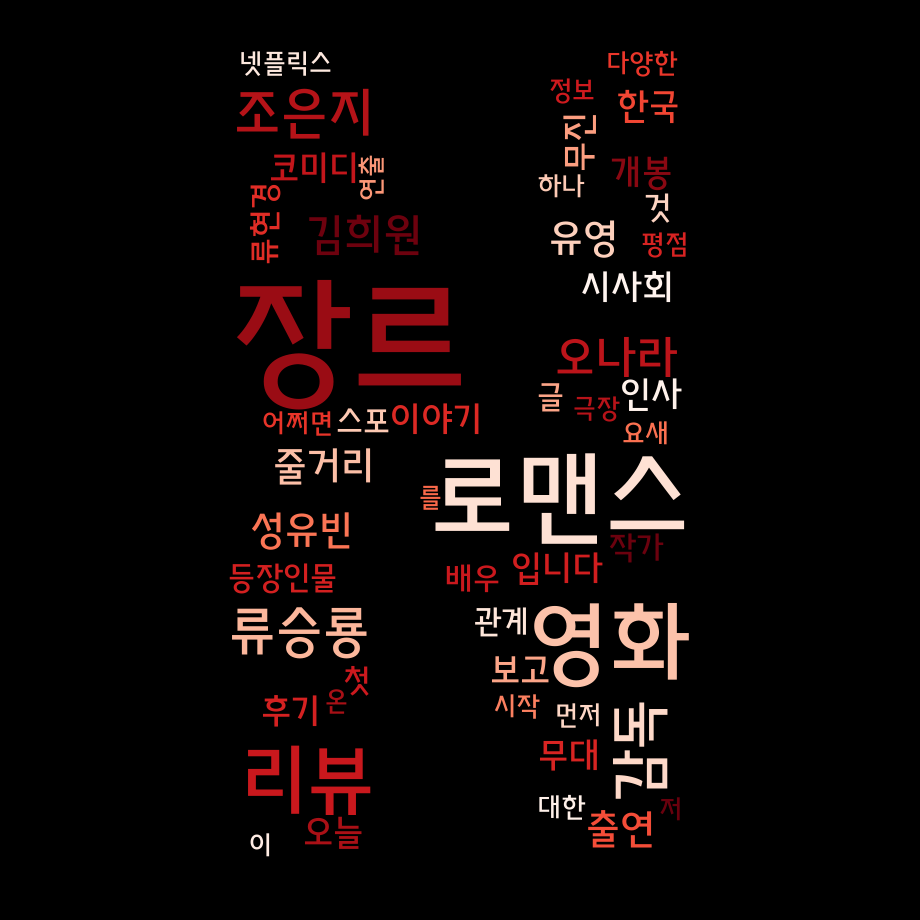
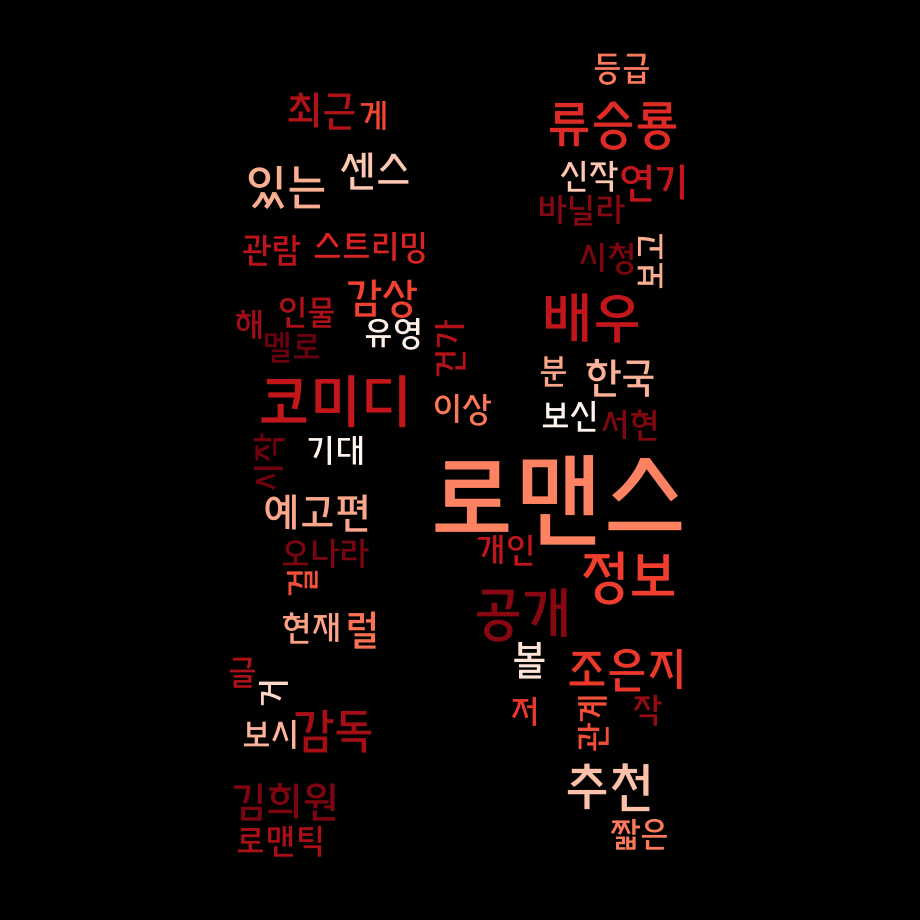
function update

Changed region(s): [[0.2435, 0.0304, 0.7609, 0.9435]]

diff --git a/Netflix_Crawling.py b/Netflix_Crawling.py
@@ -17,6 +17,7 @@ import matplotlib.pyplot as plt
 from selenium.webdriver import Chrome, ChromeOptions
 from selenium.webdriver.support.ui import WebDriverWait
 from webdriver_manager.chrome import ChromeDriverManager
+from selenium.webdriver.common.by import By
 
 # 텍스트 형식
 from email.mime.text import MIMEText
@@ -30,7 +31,7 @@ from email.mime.audio import MIMEAudio
 # MIMEBase(<메인 타입>, <서브 타입>)
 from email.mime.base import MIMEBase
 
-
+# 이미지 첨부를 위한 Class
 class imageAttach(object):
     def __init__(self,name):
         self.name = name
@@ -41,6 +42,7 @@ class imageAttach(object):
     def __repr__(self):
         return "'"+self.name+"'"
 
+# 메일 전송 함수
 def send_email(smtp_info, msg):
     with smtplib.SMTP(smtp_info["smtp_server"], smtp_info["smtp_port"]) as server:
         # TLS 보안 연결
@@ -49,7 +51,8 @@ def send_email(smtp_info, msg):
         server.login(smtp_info["smtp_user_id"], smtp_info["smtp_user_pw"])
 
         # 로그인 된 서버에 이메일 전송
-        response = server.sendmail(msg['from'], msg['to'], msg.as_string()) # 메시지를 보낼때는 .as_string() 메소드를 사용해서 문자열로 바꿔줍니다.
+        response = server.sendmail(msg['from'], msg['to'], msg.as_string())
+        # 메시지를 보낼때는 .as_string() 메소드를 사용해서 문자열로 변경
 
         # 이메일을 성공적으로 보내면 결과는 {}
         if not response:
@@ -57,12 +60,12 @@ def send_email(smtp_info, msg):
         else:
             print(response)
 
-
+# 첨부 파일 추가 함수
 def make_multimsg(msg_dict):
     multi = MIMEMultipart(_subtype='mixed')
 
     for key, value in msg_dict.items():
-        # 각 타입에 적절한 MIMExxx()함수를 호출하여 msg 객체를 생성한다.
+        # 각 타입에 적절한 MIMExxx()함수를 호출하여 msg 객체를 생성.
         if key == 'text':
             with open(value['filename'], encoding='utf-8') as fp:
                 msg = MIMEText(fp.read(), _subtype=value['subtype'])
@@ -86,86 +89,46 @@ def make_multimsg(msg_dict):
 
     return multi
 
-excel_df = pd.read_excel('all-weeks-countries.xlsx', usecols = ['country_name','week','category','show_title'])
+# 웹 크롤링 함수
+def selenium_Crawling(read_title):
 
-# 엑셀
-excel_df = excel_df[excel_df['country_name']=='South Korea']
-excel_df = excel_df[excel_df['week']=='2022-02-27']
+    start_url = 'http://www.naver.com' # 첫 시작 url
 
-# 제목만 추출
-title_list = excel_df.show_title.tolist()
-
-
-print(title_list)
-
-
-chrome_options = ChromeOptions()
-
-prefs = {"download.default_directory": os.getcwd()}
-chrome_options.add_experimental_option("prefs", prefs)
-
-chrome_options.add_argument(
-'--kiosk-printing'
-)
-
-chrome_options.add_argument(
-    'start-maximized'
-)
-
-chrome_options.add_argument(
-    "disable-gpu"
-)
-
-driver = Chrome(
-    ChromeDriverManager().install(), options=chrome_options
-)
-
-maximum_wait = 15
-wait = WebDriverWait(driver, maximum_wait)
-
-start_url = 'http://www.naver.com' # 첫 시작 url
-
-value = title_list
-
-attach_dict={}
-tag_list=[]
-
-for titles in value:
     driver.get(start_url)
-    search = driver.find_element_by_id('query') #검색창 가져오기
+    search = driver.find_element(By.ID,'query') #검색창 가져오기
     time.sleep(1)
-    search.send_keys(f"{titles} 리뷰") #검색창 입력
+    search.send_keys(f"넷플릭스 {read_title} 리뷰") #검색창 입력
 
-    driver.find_element_by_id('search_btn').click() #버튼 클릭
-    time.sleep(1)
-
-    driver.find_element_by_link_text("VIEW").click() #view 클릭
+    driver.find_element(By.ID,'search_btn').click() #버튼 클릭
     time.sleep(1)
 
-    driver.find_element_by_link_text("블로그").click() #블로그 클릭
+    driver.find_element(By.LINK_TEXT,"VIEW").click() #view 클릭
     time.sleep(1)
 
-    des_texts = driver.find_elements_by_class_name('dsc_txt') #미리보기 text 가져오기
+    driver.find_element(By.LINK_TEXT,"블로그").click() #블로그 클릭
+    time.sleep(1)
+
+    des_texts = driver.find_elements(By.CLASS_NAME,'dsc_txt') #미리보기 text 가져오기
+
     des_text=""
     for i in des_texts:
         des_text += " "+i.text
     print(des_text)
-    # 워드클라우드
+    return des_text
+
+# 전처리 및 워드카운트
+def preprocessing(read_text,stop_words):
     # 토큰화
     okt=Okt()
     #print(des_texts)
     # 토큰화 후 배열로 저장
     line=[]
-    line = okt.pos(des_text)
+    line = okt.pos(read_text)
 
     n_adj=[]
     for word, tag in line:
         if tag in ['Noun','Adjective']:
             n_adj.append(word)
-
-    # 불용어 제거
-    stop_words = ""
-    stop_words=set(stop_words.split(' '))
 
     # 불용어 제외한 단어만 남기기
     n_adj = [word for word in n_adj if not word in stop_words]
@@ -173,20 +136,16 @@ for titles in value:
     # 가장 많이 나온 단어 50개 저장
     counts = Counter(n_adj)
     tags = counts.most_common(50)
+    return tags
 
-
-    mask = Image.new("RGBA",(920,920),(255,255,255))
-    image=Image.open('netflix_logo.png').convert("RGBA")
-    x,y =image.size
-    mask.paste(image,(0,0,x,y),image)
-    mask = np.array(mask)
-
-
-
-    # 폰트
-    font ='t0SbEaWPJanI7N31lVxO_i1Ngp0.ttf'
+# 워드클라우드 생성 함수
+def toWordcloud(tags,mask,font):
     # 워드클라우드 generate
-    word_cloud = WordCloud(font_path=font,background_color='black',max_font_size=300, mask=mask, colormap='Reds').generate_from_frequencies(dict(tags))
+    word_cloud = WordCloud(font_path=font,
+                           background_color='black',
+                           max_font_size=300,
+                           mask=mask, colormap='Reds').\
+        generate_from_frequencies(dict(tags))
 
     # 그림으로 표현하기
     plt.figure(figsize=(20,8))
@@ -196,28 +155,89 @@ for titles in value:
 
     # 이미지로 저장
     word_cloud.to_file(f'./result/{titles}.png')
-    #plt.show()
 
+
+# Netflix 나라별 Top10 엑셀에서 최신 한국기준으로 불러오기
+excel_df = pd.read_excel('all-weeks-countries.xlsx',
+                         usecols = ['country_name','week','category','show_title'])
+excel_df = excel_df[excel_df['country_name']=='South Korea']
+excel_df = excel_df[excel_df['week']=='2022-02-27']
+
+
+# 제목리스트 추출
+title_list = excel_df.show_title.tolist()
+
+print(title_list)
+
+# Web Crawling 셋팅
+chrome_options = ChromeOptions()
+prefs = {"download.default_directory": os.getcwd()}
+chrome_options.add_experimental_option("prefs", prefs)
+chrome_options.add_argument('--kiosk-printing')
+chrome_options.add_argument('start-maximized')
+chrome_options.add_argument("disable-gpu")
+driver = Chrome(ChromeDriverManager().install(), options=chrome_options)
+
+maximum_wait = 15
+wait = WebDriverWait(driver, maximum_wait)
+
+
+# 불용어 파일 셋팅
+stop_words = open("koreanStopwords.txt",'r',encoding='utf8').read()
+stop_words=set(stop_words.split('\n'))
+
+#wordcloud 설정
+mask = Image.new("RGBA",(920,920),(255,255,255))
+image=Image.open('netflix_logo.png').convert("RGBA")
+x,y =image.size
+mask.paste(image,(0,0,x,y),image)
+mask = np.array(mask)
+font ='t0SbEaWPJanI7N31lVxO_i1Ngp0.ttf' # 폰트
+
+
+attach_dict={}
+tag_list=[]
+
+# 타이틀 별 웹 크롤링, 전처리, 시각화 진행
+for titles in title_list:
+
+    # 웹 크롤링 실행
+    des_text = selenium_Crawling(titles)
+
+    # 형태소 분석 & 워드 카운트 실행
+    tags = preprocessing(des_text,stop_words)
+
+    # 워드 클라우드 실행
+    toWordcloud(tags,mask,font)
+
+    # 타이틀 별 카운트된 워드 Top5 리스트에 저장
     top5_tag=tags[0][0]
     for num in range(1,5):
         top5_tag += ', '+tags[num][0]
     print(top5_tag)
-
     tag_list.append(top5_tag)
+
     # 이메일 전송용 이미지데이터 저장
-    attach_dict[imageAttach("image")] = {'maintype' : 'image', 'subtype' :'png', 'filename' : titles+'.png'}
+    attach_dict[imageAttach("image")] = \
+        {'maintype' : 'image', 'subtype' :'png', 'filename' : titles+'.png'}
 
     print("=========한 작품끝 =================================================================================================================")
 
 
+# 데이터프레임 엑셀로 저장
 excel_df['top_word']=tag_list
 excel_df.to_excel('./result/Netflix_Top10.xlsx',index=False)
-attach_dict['excel'] ={'maintype' : 'excel', 'subtype' : 'octect-stream', 'filename' : 'Netflix_Top10.xlsx'}
-id =''
-password=''
-#전송 정보
+attach_dict['excel'] ={'maintype' : 'excel', 'subtype' : 'octect-stream',
+                       'filename' : 'Netflix_Top10.xlsx'}
+
+
+# email / password 설정
+email = ''
+password = ''
+
+#전송 정보 설정
 smtp_info = dict({"smtp_server" : "smtp.naver.com", # SMTP 서버 주소
-                  "smtp_user_id" : id,
+                  "smtp_user_id" : email,
                   "smtp_user_pw" : password ,
                   "smtp_port" : 587}) # SMTP 서버 포트
 
@@ -228,13 +248,20 @@ sender = "hahxowns@naver.com"
 receiver = "hahxowns@gmail.com"
 
 
+
+# 메세지 전송
 msg = MIMEText(_text = content, _charset = "utf-8") # 메일 내용
 
-# 첨부파일 추가
+# 첨부파일 추가 및 송신 메일 설정
 multi = make_multimsg(attach_dict)
 multi['subject'] = title    # 메일 제목
 multi['from'] = sender      # 송신자
 multi['to'] = receiver      # 수신자
 multi.attach(msg)
 
+ # 메일 전송
+send_email(smtp_info, multi)
+
+multi['to'] = ''      # 수신자
+# 메일 전송
 send_email(smtp_info, multi)
